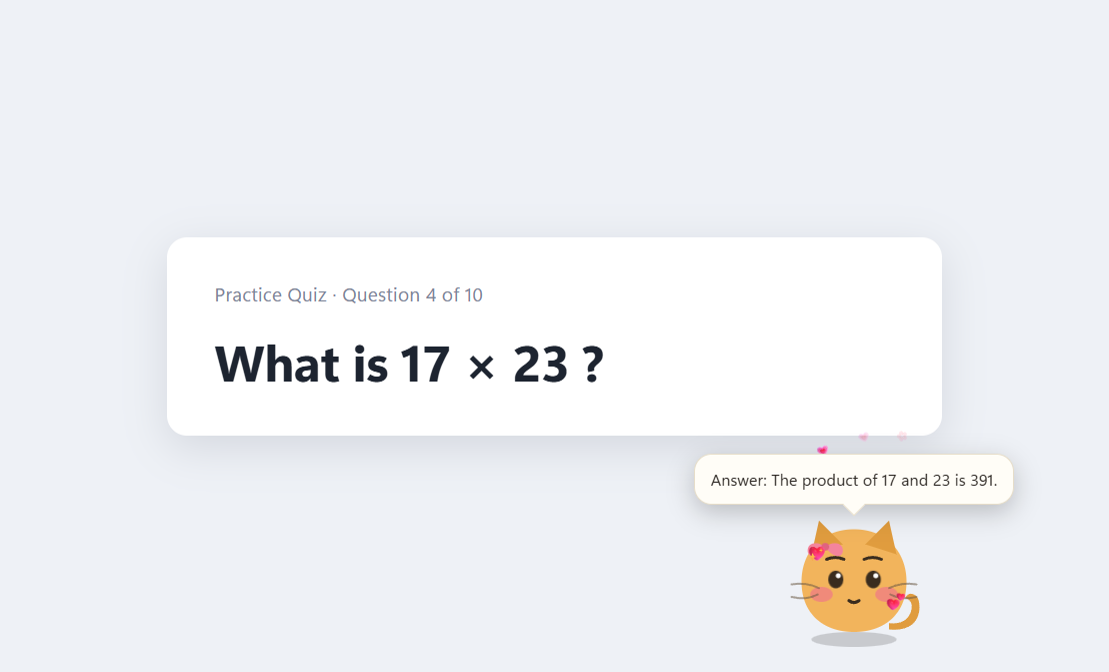
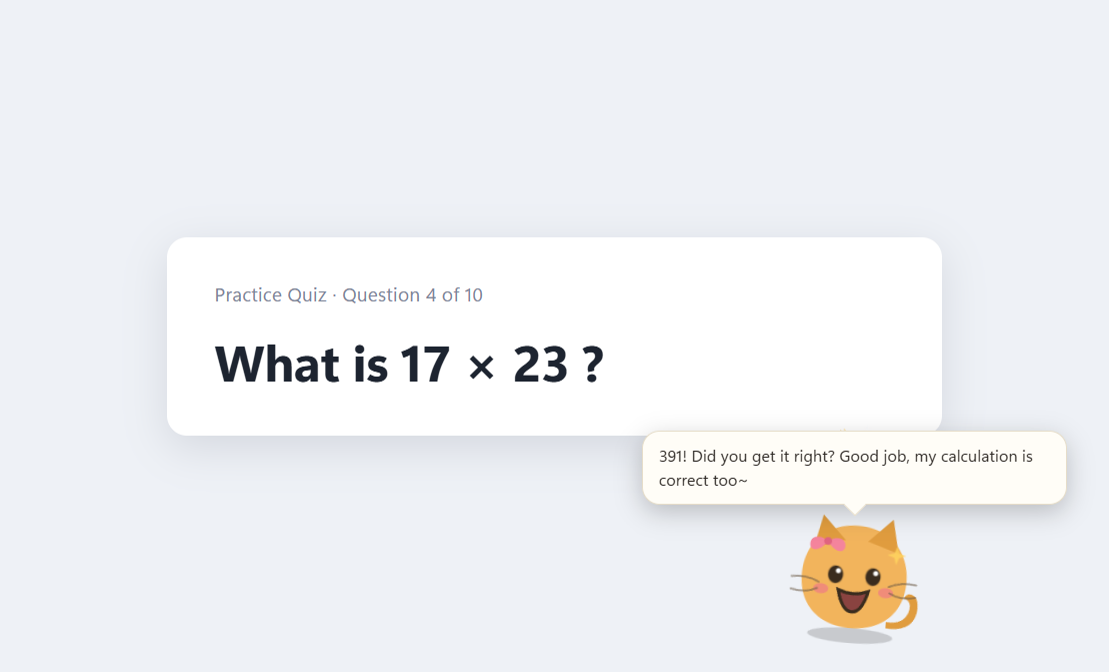
chore: re-record the demo with the walk, the peek and the dance
Beats are now idle, walks across, looks around, walks back, hotkey,
thinking, answer, headpat, shy, dance. The stage gained demo.move() and
demo.walkTo(), both driving the app's own data-move attribute and CSS
transition rather than a slide staged for the camera.

Two things the first take found, neither visible from the code:

The walk back is load-bearing. The bubble hangs off the pet, so answering
from the middle of the stage put the reply straight across the question it
was answering.

The model returned "the answer is **391**" and the bubble is a plain text
node, so the asterisks were on screen. That is an app bug, not a demo one -
stripMarkup now removes paired emphasis, headings and bullets from every
reply. Lone asterisks survive, because "*pounces*" is the pet doing
something rather than markdown.

Also brought the demo's rain() in line with the renderer's: it clears the
previous burst, so hearts no longer fall through the confetti.

125 frames, 720x480, 1.5MB.

Changed region(s): [[0.5825, 0.625, 0.9504, 0.7812], [0.7051, 0.75, 0.8278, 0.9688]]

diff --git a/demo/record.js b/demo/record.js
@@ -80,9 +80,19 @@ app.whenReady().then(async () => {
     for (let i = 0; i < count; i++) await frame(minDelay);
   }
 
-  await beat(5);                                // idle: bobbing, blinking
-  await js('demo.quirk()');
-  await beat(22);                               // stretch, tail flick, glance
+  await beat(4);                                // idle: bobbing, blinking
+  // Body first. Before it is asked anything, the pet walks across and has a
+  // look around - which is the fastest way to say this is a creature and not a
+  // notification with a face drawn on it.
+  await js('demo.walkTo(-150)');
+  await beat(15);                               // step cycle, moving
+  await js(`demo.move('peek')`);
+  await beat(13);                               // looks left, holds, looks right
+  // And back to its corner before it is asked anything. Not padding: the bubble
+  // hangs off the pet, so answering from the middle of the stage puts the reply
+  // straight over the question it is answering.
+  await js('demo.walkTo(0, 1500)');
+  await beat(11);
   await js('demo.badge(true)');
   await beat(6);                                // hotkey pressed
   await js(`demo.thinking(); demo.expr('hmm')`);
@@ -96,15 +106,20 @@ app.whenReady().then(async () => {
   frames.push({ ...frames.at(-1), delay: 1600 }); // hold so it can be read
 
   await js(`demo.headpat(); demo.expr('love')`);
-  await beat(16);                               // heart eyes, and hearts raining down
+  await beat(14);                               // heart eyes, and hearts raining down
   frames.push({ ...frames.at(-1), delay: 700 });
 
-  // Then it gets shy about it, which is where the bow turns up. Two feelings is
-  // enough for a hero image: the clip is about reading the screen, and the rest
-  // of the range lives in pet-faces.png rather than padding this out.
+  // Then it gets shy about it, which is where the bow turns up.
   await js(`demo.expr('shy'); demo.rain(['🌸', '💗'])`);
-  await beat(16);
-  frames.push({ ...frames.at(-1), delay: 1500 });
+  await beat(12);
+  frames.push({ ...frames.at(-1), delay: 800 });
+
+  // And a dance to finish, because a body that only walks is a cursor. The rest
+  // of the range lives in pet-faces.png and pet-moves.png rather than padding
+  // this out - the clip is still about reading the screen.
+  await js(`demo.move('dance'); demo.expr('joy'); demo.rain(['🎉', '🎊', '✨'], 7)`);
+  await beat(18);
+  frames.push({ ...frames.at(-1), delay: 1400 });
 
   fs.writeFileSync(STILL, (await shot()).toPNG());
 

diff --git a/brain.js b/brain.js
@@ -57,6 +57,19 @@ function unquote(text) {
   return t.replace(/^["“]\s*/, '').replace(/\s*["”]$/, '').trim();
 }
 
+// The bubble is a plain text node, so markdown arrives as visible punctuation:
+// the pet saying "the answer is **391**" with the asterisks in it. Only the
+// paired emphasis markers go - a lone asterisk is left alone, because
+// "*pounces*" is the pet doing something and reads correctly as it is.
+function stripMarkup(text) {
+  return text
+    .replace(/\*\*(\S(?:[\s\S]*?\S)?)\*\*/g, '$1')
+    .replace(/__(\S(?:[\s\S]*?\S)?)__/g, '$1')
+    .replace(/^#{1,6}\s+/gm, '')
+    .replace(/^\s*[-*]\s+/gm, '') // the bubble is two lines, not a bullet list
+    .trim();
+}
+
 function cleanOcr(text) {
   return text
     .split('\n')
@@ -245,7 +258,7 @@ async function generate(body, opts = {}) {
     // Empty means empty. The pet's own voice lives in pet-state's line bank, so
     // inventing a sentence here would put a second, blander personality in the
     // one file that is meant to have none.
-    return unquote(stripEcho(stripThinking(String(data.response || ''))));
+    return stripMarkup(unquote(stripEcho(stripThinking(String(data.response || '')))));
   } catch (err) {
     if (err.name === 'AbortError') return 'That took too long. Try a smaller model.';
     return `I cannot reach the local model. Is Ollama running?\n(${err.message})`;
@@ -330,7 +343,7 @@ async function listModels(opts = {}) {
 }
 
 module.exports = {
-  redact, stripThinking, stripEcho, unquote, cleanOcr, hasEnoughText,
+  redact, stripThinking, stripEcho, unquote, stripMarkup, cleanOcr, hasEnoughText,
   buildPrompt, buildVisionPrompt, buildChatPrompt,
   ask, askVision, chat, detectVisionModel, listModels,
   MODEL, EMPTY_SCREEN, MIN_SCREEN_TEXT,

diff --git a/demo/stage.js b/demo/stage.js
@@ -52,9 +52,31 @@ window.demo = {
     setTimeout(() => petEl.classList.remove('is-idling'), 2600);
   },
 
+  // Whole-body movements, the same data-move attribute the renderer sets. The
+  // animations come from the app's stylesheet, so what the clip shows is what
+  // the app does.
+  move(name, ms = 2400) {
+    delete petEl.dataset.move;
+    void petEl.offsetWidth;
+    petEl.dataset.move = name;
+    setTimeout(() => { delete petEl.dataset.move; }, ms);
+  },
+
+  // The app walks by translating the stage under a CSS transition and running
+  // the step cycle for exactly as long as it lasts. Same here, so the walk in
+  // the clip is the walk in the app rather than a slide staged for the camera.
+  walkTo(x, ms = 2200) {
+    petLayer.style.transition = `transform ${ms}ms cubic-bezier(0.4, 0, 0.25, 1)`;
+    petLayer.style.transform = `translateX(${x}px)`;
+    window.demo.move('walk', ms);
+  },
+
   // Same shape as the renderer's rain(): the stylesheet decides how a falling
   // thing moves, this only picks what falls and from where.
   rain(chars, count = 5) {
+    // One feeling at a time, the same rule the renderer follows - without this
+    // the hearts are still falling through the confetti.
+    fx.replaceChildren();
     for (let i = 0; i < count; i++) {
       const el = document.createElement('span');
       el.className = 'drop';

diff --git a/test.js b/test.js
@@ -82,6 +82,22 @@ const near = (a, b, msg) => assert.ok(Math.abs(a - b) < 0.001, `${msg}: ${a} != 
   assert.strictEqual(unquote(''), '');
 }
 
+// --- stripMarkup: the bubble is a text node, so markdown arrives as clutter ---
+{
+  const { stripMarkup } = require('./brain');
+  assert.strictEqual(stripMarkup('The answer is **391**'), 'The answer is 391');
+  assert.strictEqual(stripMarkup('__really__ sure'), 'really sure');
+  assert.strictEqual(stripMarkup('## Heading\nbody'), 'Heading\nbody');
+  assert.strictEqual(stripMarkup('- one\n- two'), 'one\ntwo');
+
+  // A lone asterisk is the pet doing something, not emphasis, and has to
+  // survive - stripping it would turn "*pounces*" into "pounces".
+  assert.strictEqual(stripMarkup('17 times 23 is... *pounces* ...391!'),
+    '17 times 23 is... *pounces* ...391!');
+  // Multiplication is not emphasis either.
+  assert.strictEqual(stripMarkup('3 * 4 * 5 = 60'), '3 * 4 * 5 = 60');
+}
+
 // --- stripThinking ---
 {
   assert.strictEqual(stripThinking('<think>hmm 17*23</think>The answer is 391.'), 'The answer is 391.');

diff --git a/README.md b/README.md
@@ -583,15 +583,20 @@ Rebuilds `demo/screenpet-demo.gif` and a still for store listings.
 
 The recorder does not touch your actual screen — it renders a mock quiz page in
 its own window, so nothing personal ends up in the clip. Everything else is real:
-the pet, the bubble and the animations are the app's own stylesheet, the idle
-quirk is the same `is-idling` class the renderer toggles, and the answer comes
-from capturing that page, running it through Windows OCR and asking the local
-model, exactly as the app does. If the model is unreachable the recorder fails
-rather than writing a hard-coded answer.
+the pet, the bubble and every animation are the app's own stylesheet, the walk is
+the same `data-move` attribute and the same CSS transition the renderer uses, and
+the answer comes from capturing that page, running it through Windows OCR and
+asking the local model, exactly as the app does. If the model is unreachable the
+recorder fails rather than writing a hard-coded answer.
 
-Beats: idle → stretch and tail flick → hotkey → thinking → answer → headpat.
-Whatever the model says that run is what goes in the clip, including the run
-where it answered on two lines.
+Beats: idle → walks across → looks around → walks back → hotkey → thinking →
+answer → headpat → shy → dance. Whatever the model says that run is what goes in
+the clip.
+
+**The walk back is not padding.** The bubble hangs off the pet, so answering from
+the middle of the stage puts the reply straight across the question it is
+answering — which the first take did, and which is only visible by looking at the
+frame rather than at the code.
 
 ## Build
 
